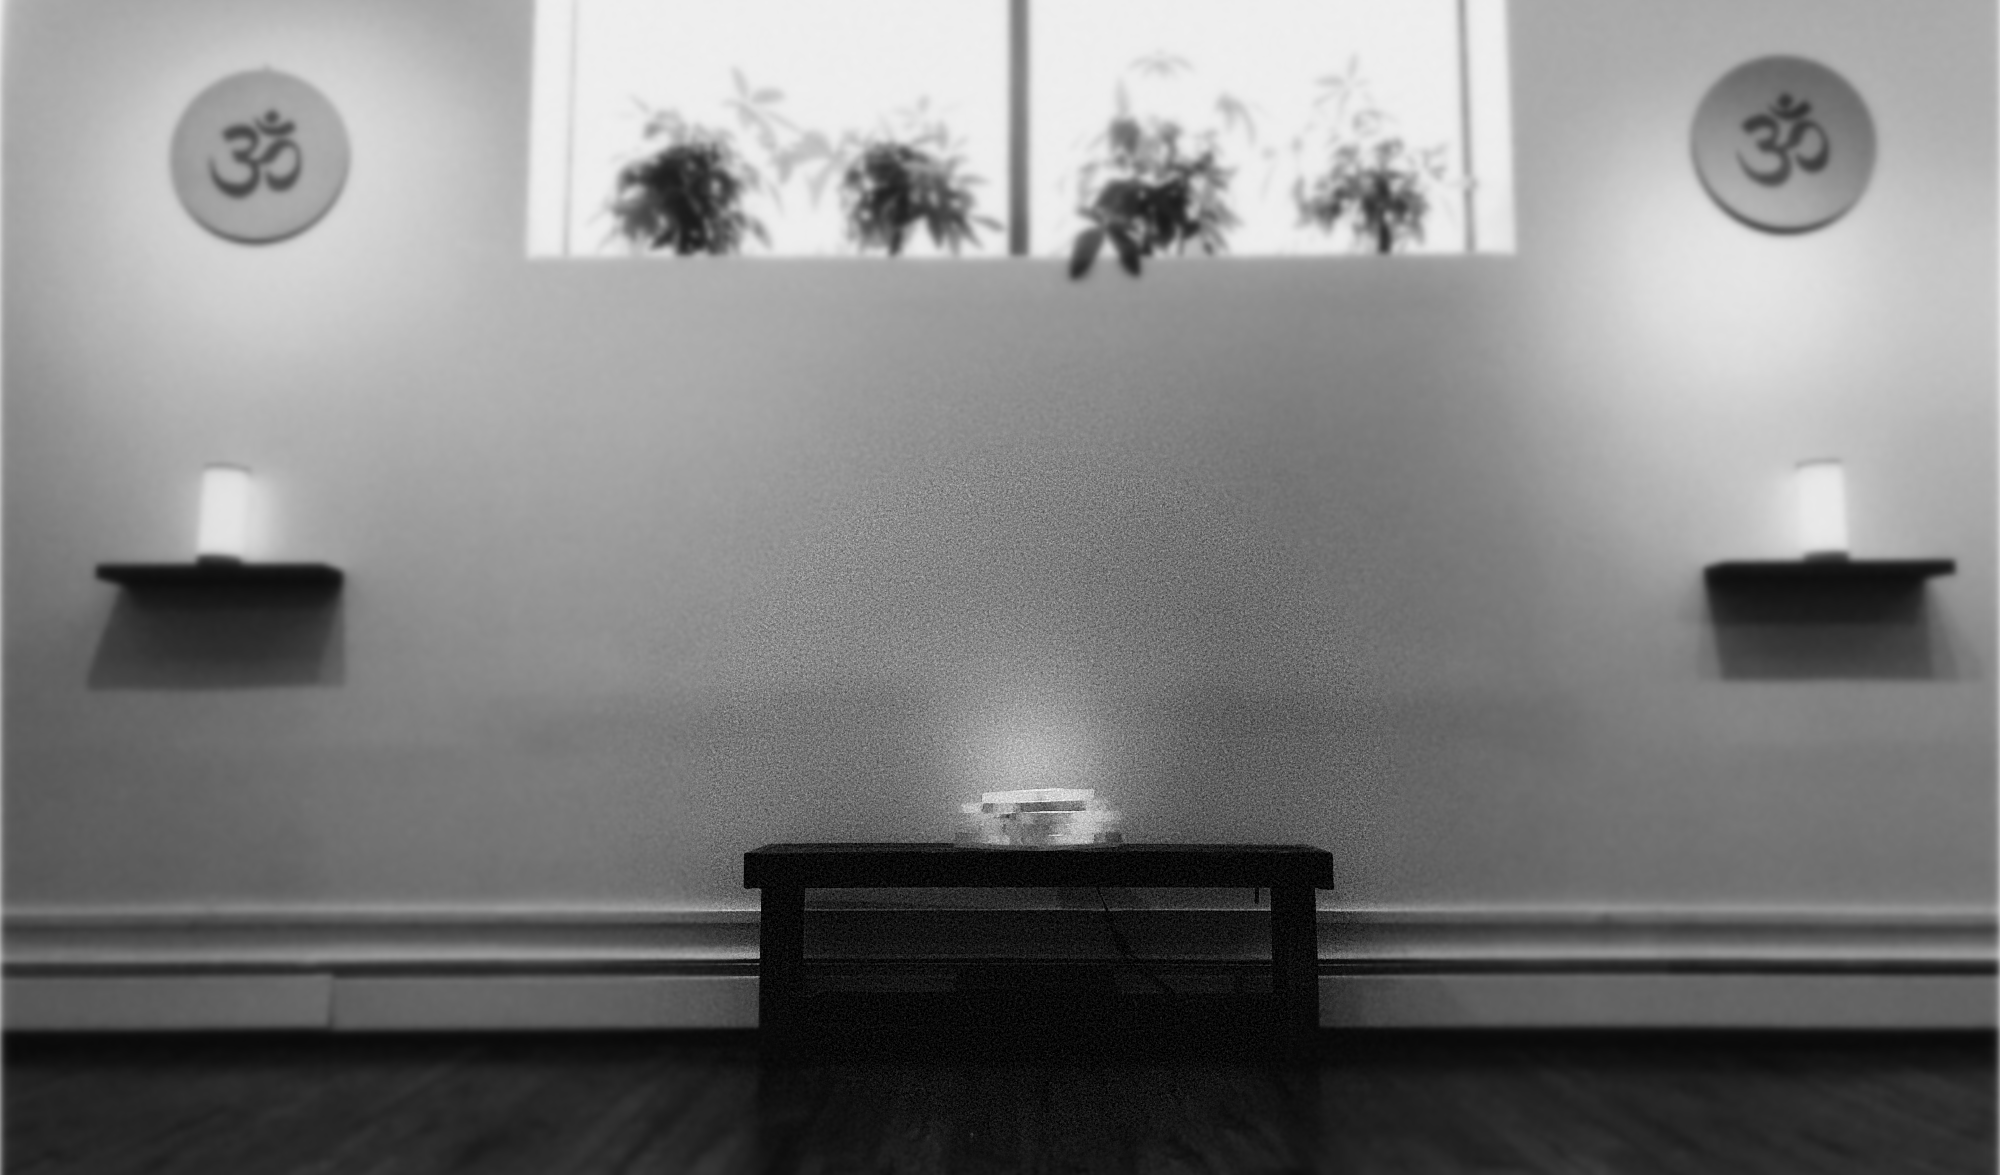
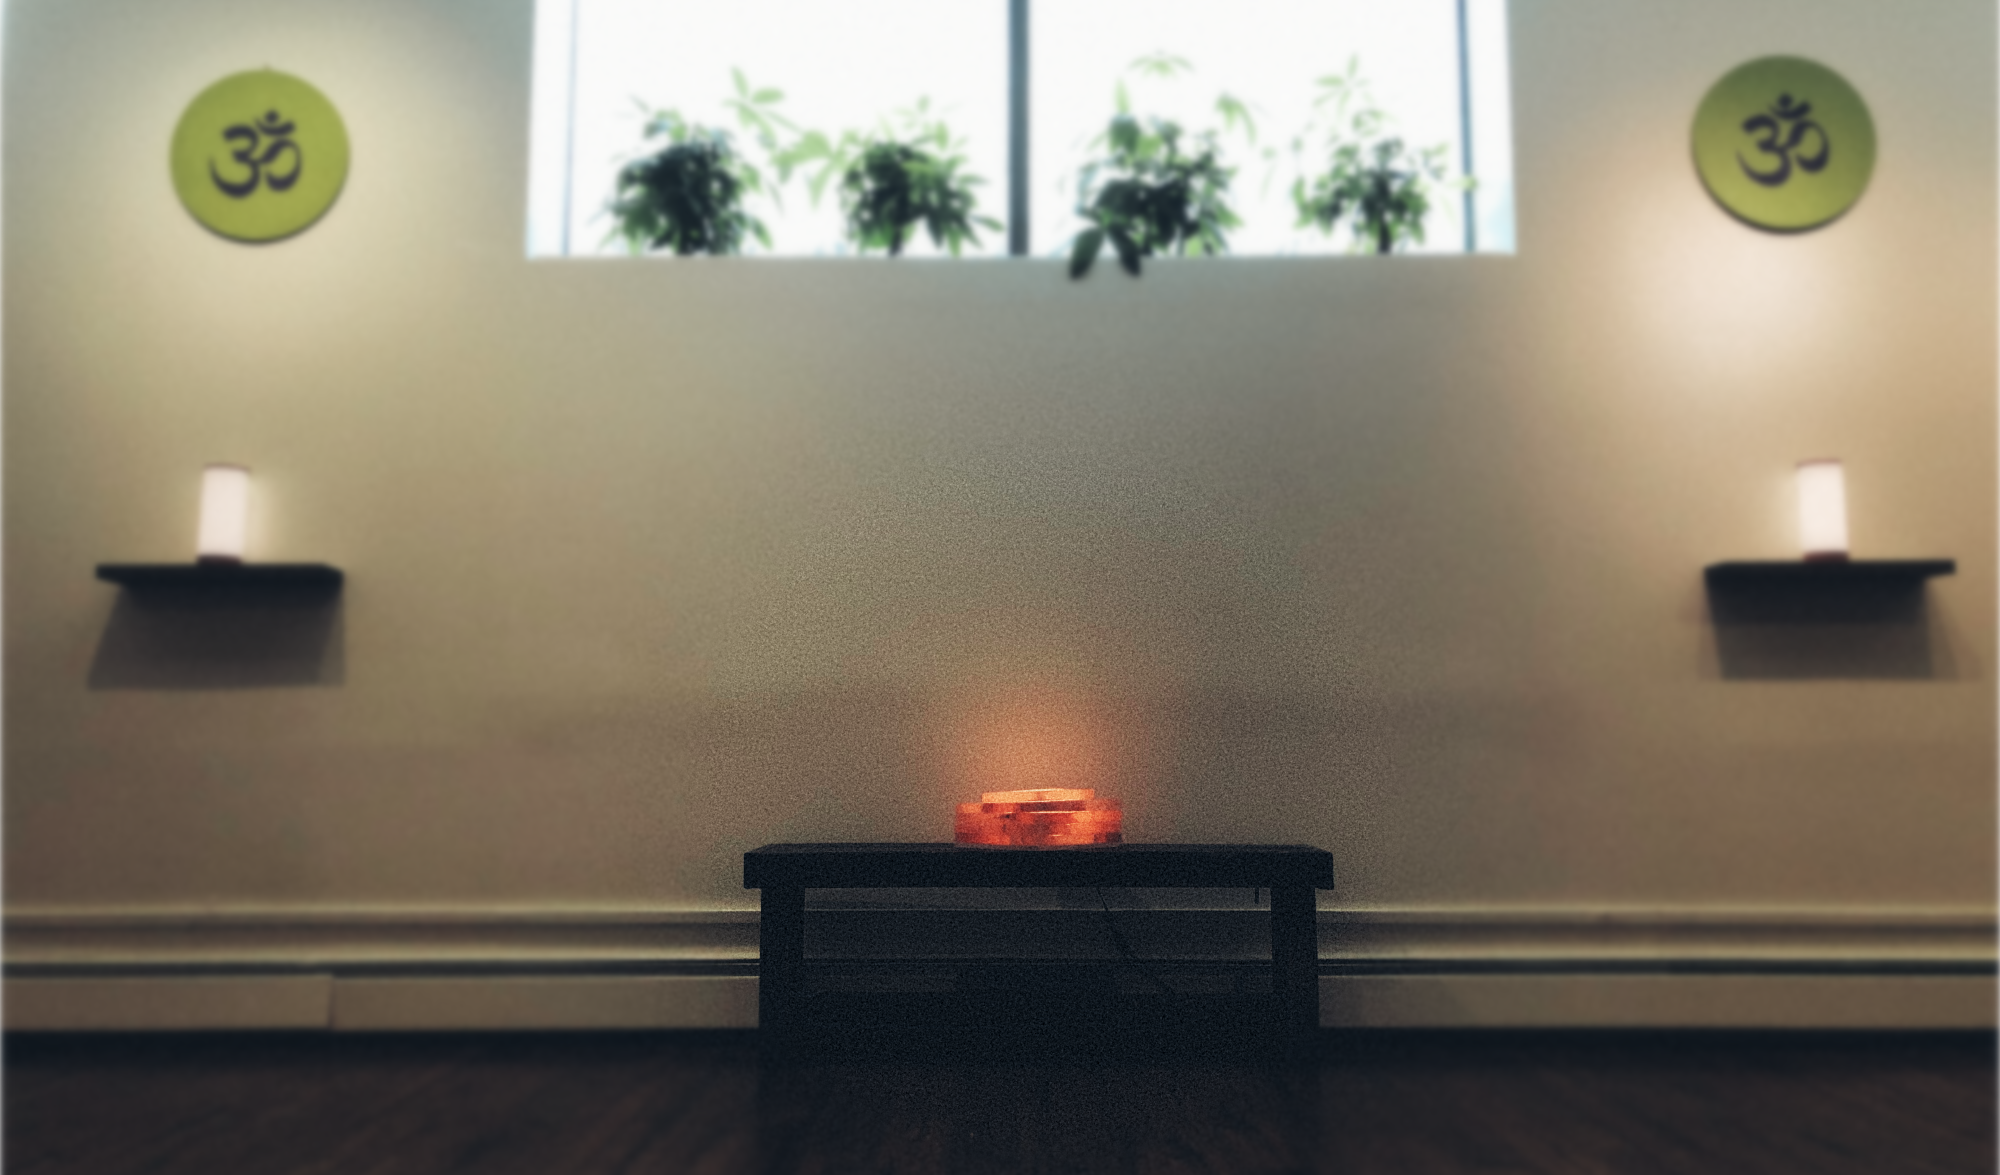
change: home view photo; app bar & footer colors; add: beginning of menu

diff --git a/vue/src/views/Home.vue b/vue/src/views/Home.vue
@@ -1,7 +1,7 @@
 <template>
   <v-container>
     <v-card class="mx-auto my-2 rounded-xl" max-width="900px" min-width="700px">
-      <v-img height="350px" src="@/assets/IMG_5742.jpeg"></v-img>
+      <v-img height="350px" src="@/assets/app-bar-photo.png"></v-img>
       <v-card-title><strong>Welcome</strong></v-card-title>
       <v-card-text>
         <v-row align="center" class="mx-0">
@@ -14,7 +14,7 @@
       <v-card-text>
         <v-chip-group
             v-model="selection"
-            active-class="deep-purple accent-4 white--text"
+            active-class="deep-orange accent-4 white--text"
             column
         >
           <v-chip>5:30PM</v-chip>
@@ -29,13 +29,14 @@
 
       <v-card-actions>
         <v-btn
-            color="deep-purple lighten-2"
+            color="deep-orange lighten-2"
             text
             @click="reserve"
         >
           Reserve
         </v-btn>
       </v-card-actions>
+      <v-card-text>Lorem ipsum dolor sit amet consectetur adipisicing elit. Quis nemo repellat facilis adipisci quod praesentium saepe illo ipsam earum veritatis natus non blanditiis debitis, quos assumenda iure vel tempora id.</v-card-text>
 
     </v-card>
 

diff --git a/vue/src/layout/AppBar.vue b/vue/src/layout/AppBar.vue
@@ -1,12 +1,19 @@
 <template>
   <v-app-bar
     app
-    elevation="1"
-    color="#FFC107"
+    elevation="1"    
+    color="#FFF8E1"
     light
     prominent
     scroll-target="#scrolling-techniques-3"
-  >  
+    famde-img-on-scroll
+  > 
+    <template v-slot:img="{ props }">
+      <v-img
+        v-bind="props"
+        gradient="to bottom left, rgba(255, 236, 179, .7), rgba(255, 193, 7, 1)"
+      ></v-img>
+    </template>
   <v-menu bottom right>
       <template v-slot:activator="{ on, attrs }">
         <v-btn v-bind="attrs" v-on="on" icon tile>

diff --git a/vue/src/layout/AppFooter.vue b/vue/src/layout/AppFooter.vue
@@ -4,7 +4,7 @@
     padless
     class="d-none d-sm-flex"
     min-height="200px"
-    color="#FFECB3"
+    color="#EFEBE9"
   >
     <v-col class="">
       {{ new Date().getFullYear() }} <strong>Sattva Yoga Center</strong>
